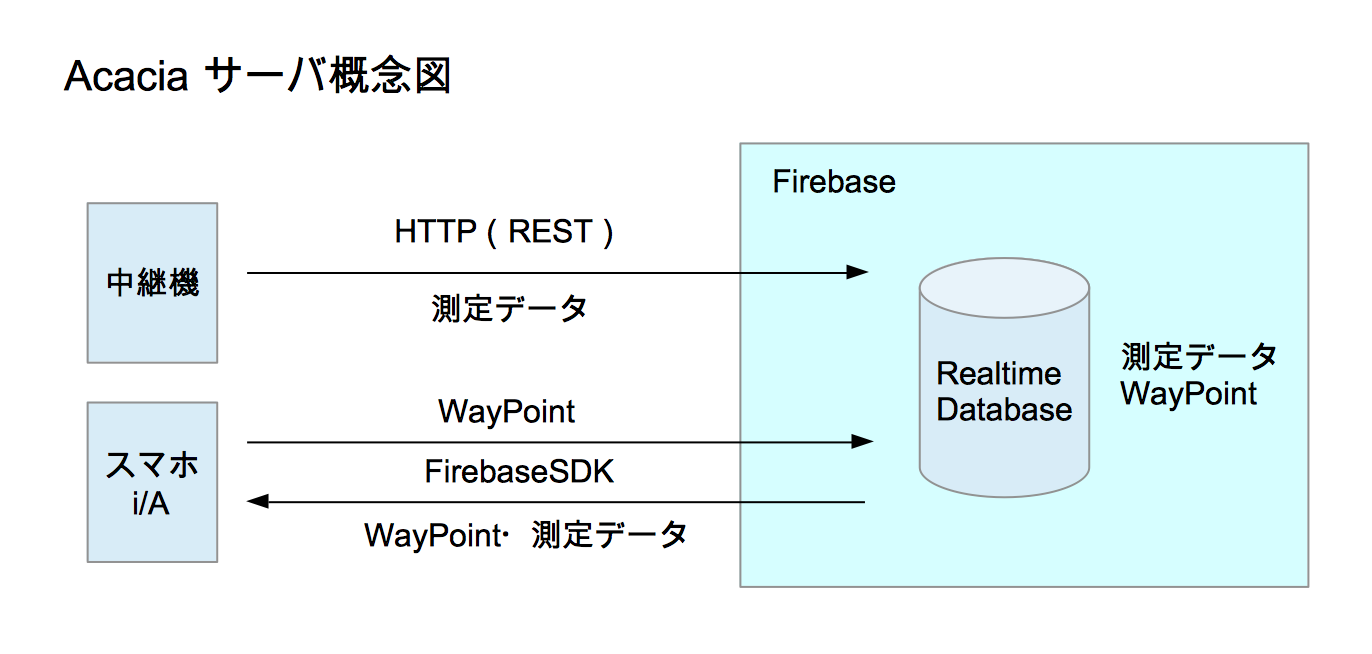
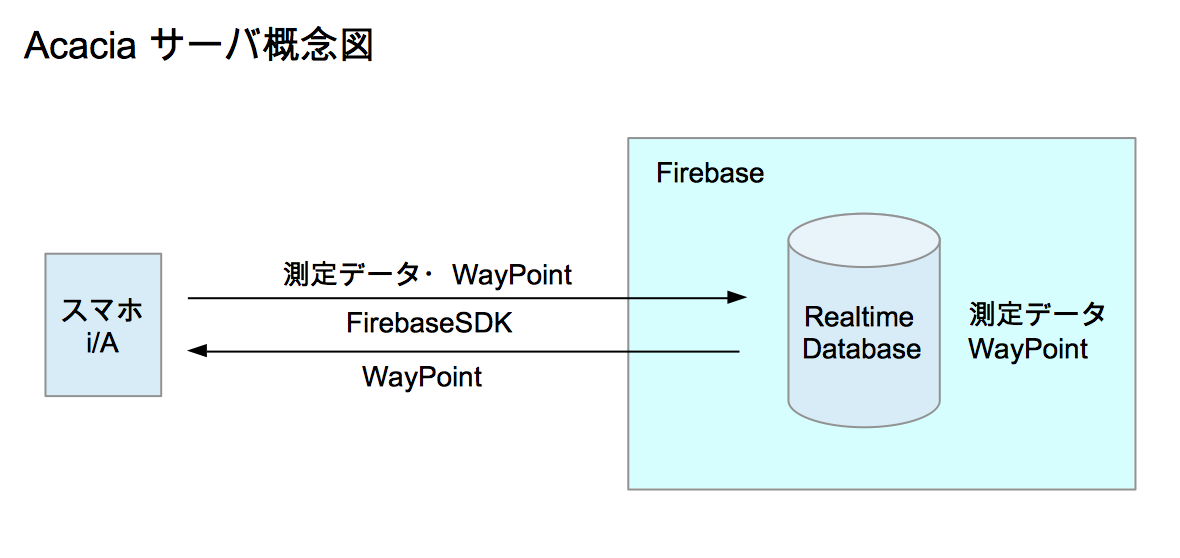
update overview.md

diff --git a/Documents/overview.md b/Documents/overview.md
@@ -7,9 +7,8 @@
 
 
 ## 2. 機能
-### 2.1 測定データの保存と提供
- - 中継器からのセンサー測定データの保存
- - スマホへのセンサー測定データの提供
+### 2.1 測定データの保存
+ - スマホからのセンサー測定データの保存
 
 ### 2.2 Waypointの保存と提供
  - スマホで設定したWaypointの保存
